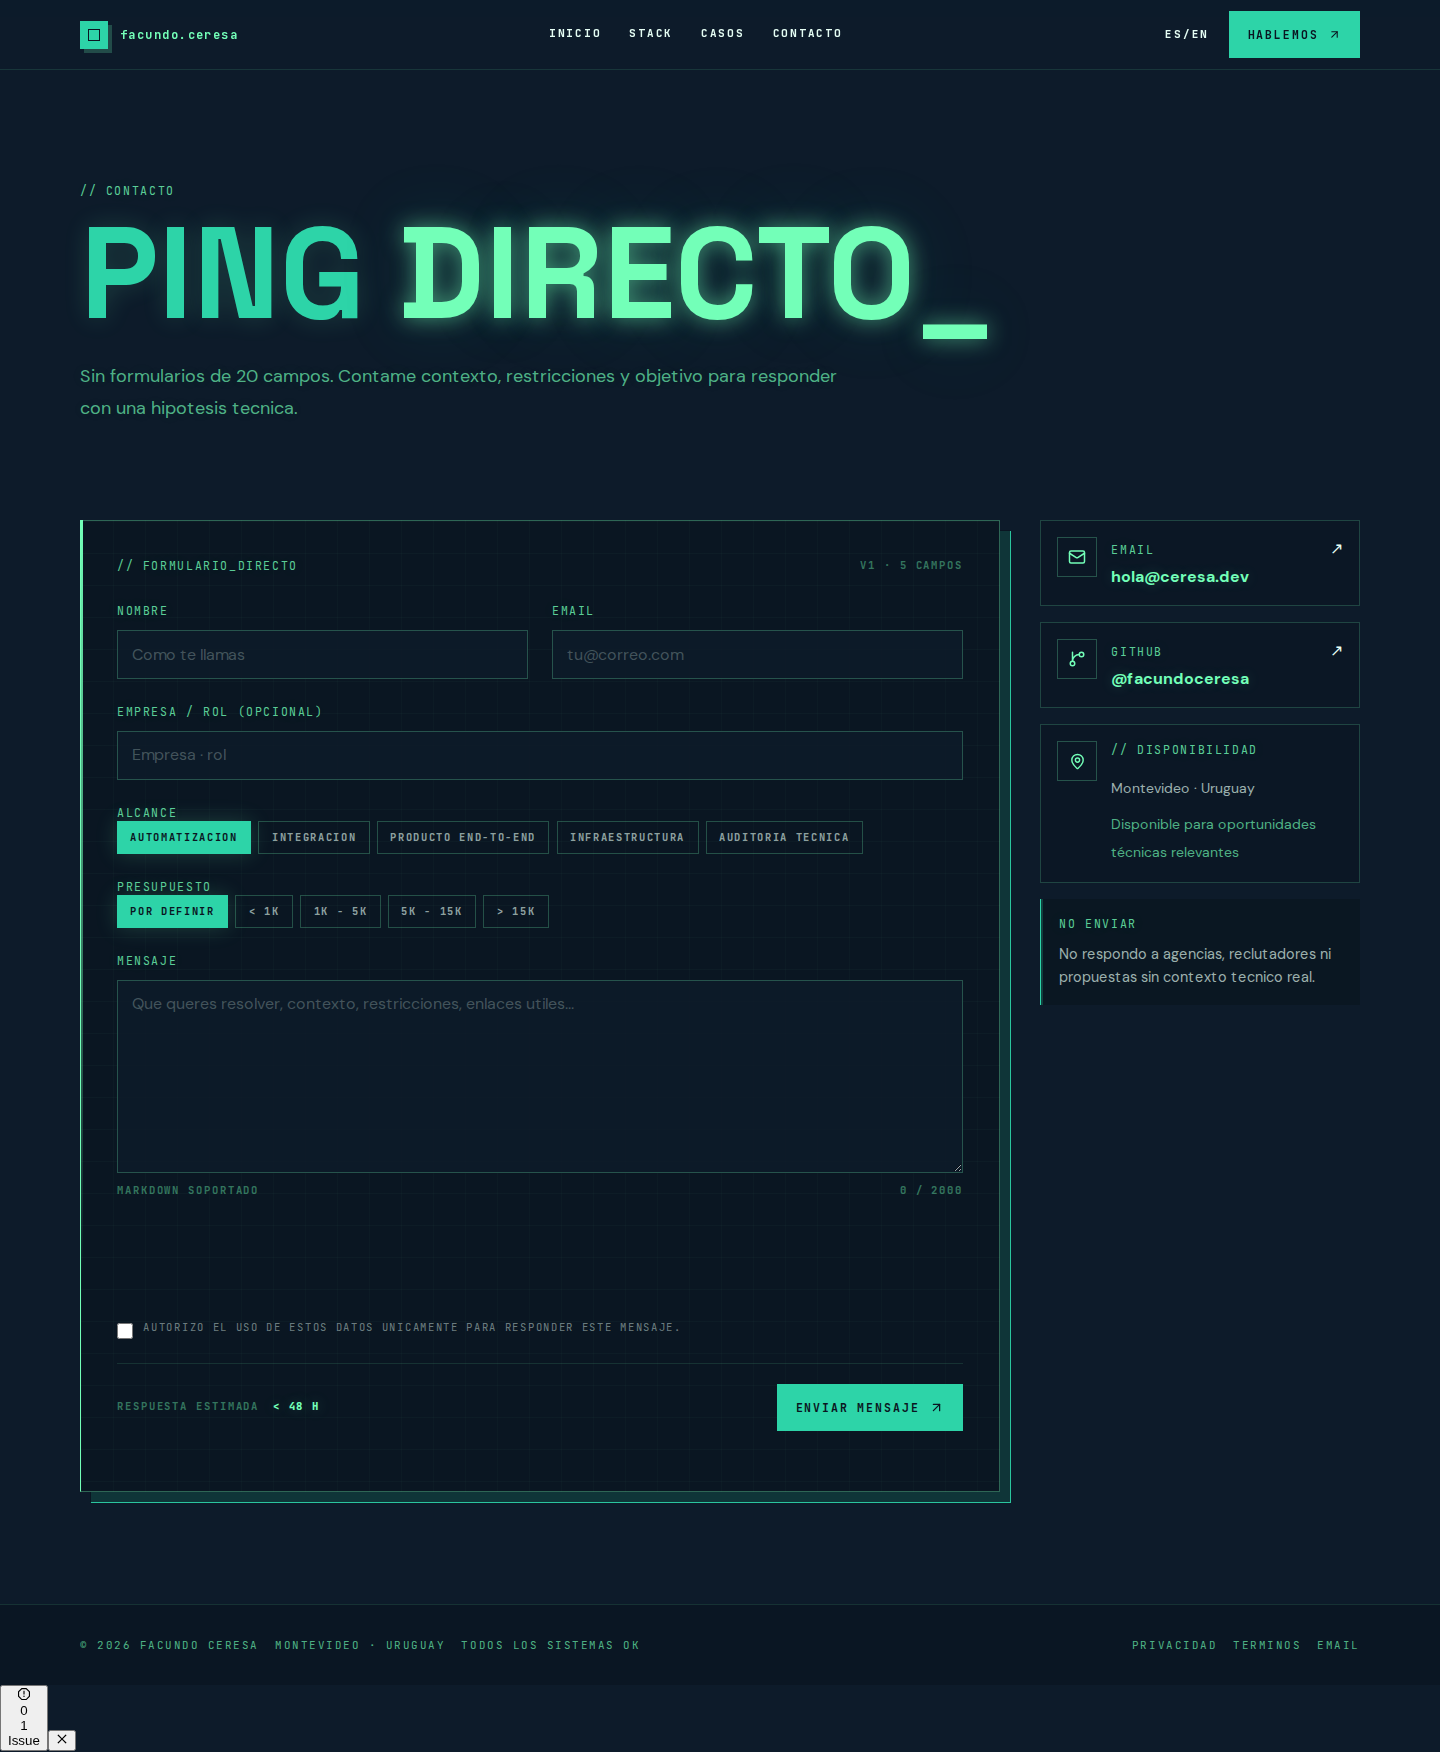
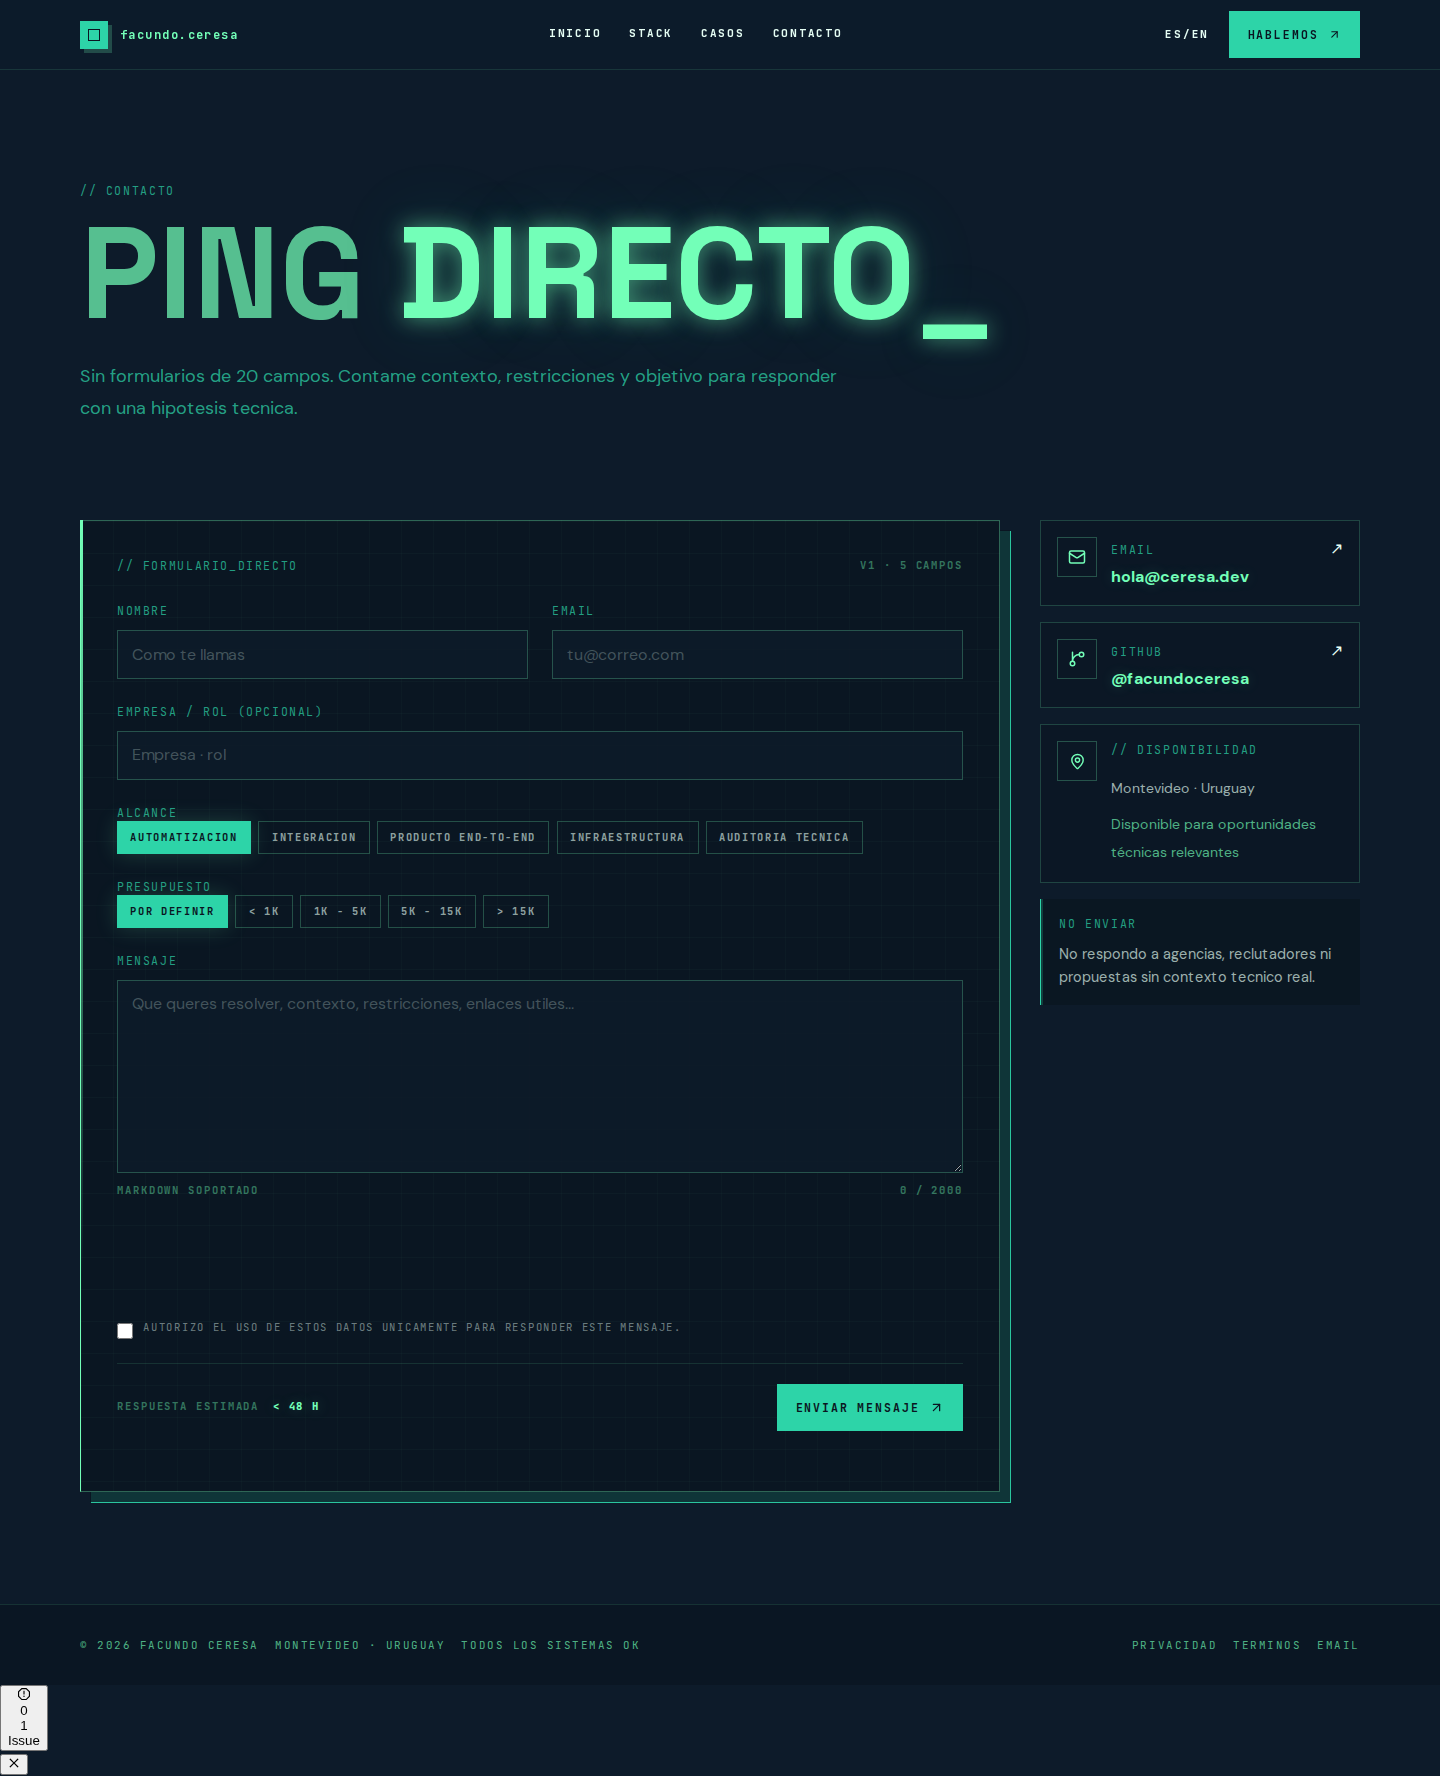
Tune portfolio text emphasis

diff --git a/apps/web/components/home/home-page.tsx b/apps/web/components/home/home-page.tsx
@@ -67,14 +67,14 @@ export function HomePage({ locale, settings, projects }: { locale: Locale; setti
           <div className="flex flex-col justify-between gap-14">
             <div>
               <p className="hero-boot tech-label mb-6">CERESA · {availability}</p>
-              <h1 className="hero-boot hero-boot-delay-1 display-title max-w-5xl text-[clamp(3.1rem,11vw,9.4rem)] text-mint drop-shadow-[0_0_28px_rgba(45,212,168,0.34)]">
+              <h1 className="hero-boot hero-boot-delay-1 display-title max-w-5xl text-[clamp(3.1rem,11vw,9.4rem)]">
                 FACUNDO
                 <br />
-                CERESA
+                <span className="text-glow-strong">CERESA</span>
               </h1>
             </div>
             <div className="max-w-[52rem]">
-              <p className="hero-boot hero-boot-delay-2 mb-5 max-w-2xl text-lg leading-8 text-[color:var(--muted)]">{t.hero.terminal}</p>
+              <p className="hero-boot hero-boot-delay-2 mb-5 max-w-2xl text-lg leading-8 text-tone-green">{t.hero.terminal}</p>
               <div className="hero-boot hero-boot-delay-3 mb-9 flex flex-wrap items-center gap-3">
                 <Link className="hard-button hard-button-primary" href="#trabajo">
                   {t.hero.work}
@@ -128,8 +128,8 @@ export function HomePage({ locale, settings, projects }: { locale: Locale; setti
         <div className="mx-auto grid max-w-[1360px] gap-10 px-5 md:grid-cols-[0.85fr_1fr] md:px-10">
           <div>
             <p className="tech-label mb-4">{locale === "es" ? "// perfil" : "// profile"}</p>
-            <h2 className="display-title text-[clamp(2.4rem,5vw,5.4rem)] text-mint">{locale === "es" ? "Software cerca del proceso." : "Software close to the process."}</h2>
-            <p className="mt-7 max-w-xl text-lg leading-8 text-[color:var(--muted)]">
+            <h2 className="display-title text-[clamp(2.4rem,5vw,5.4rem)]">{renderAccentTitle(locale === "es" ? "Software cerca del proceso." : "Software close to the process.")}</h2>
+            <p className="mt-7 max-w-xl text-lg leading-8 text-tone-muted">
               {locale === "es"
                 ? "Trabajo mejor cuando el problema cruza operación, datos e integración: entender cómo se mueve el negocio, modelarlo bien y dejar una herramienta que alguien pueda usar todos los días."
                 : "My best work sits where operations, data and integration meet: understanding how the business moves, modeling it well and leaving behind a tool people can use every day."}
@@ -143,8 +143,8 @@ export function HomePage({ locale, settings, projects }: { locale: Locale; setti
             {capabilityCards[locale].map((item, index) => (
               <ScrollReveal key={item.title} className="technical-card p-5" delay={index * 50} hover="surface">
                 <p className="tech-label mb-3">{item.kicker}</p>
-                <h3 className="font-display text-2xl font-bold uppercase text-[color:var(--glow)]">{item.title}</h3>
-                <p className="mt-4 text-sm leading-6 text-[color:var(--muted)]">{item.body}</p>
+                <h3 className="font-display text-2xl font-bold uppercase text-[color:rgba(115,255,184,0.82)]">{item.title}</h3>
+                <p className="mt-4 text-sm leading-6 text-tone-muted">{item.body}</p>
               </ScrollReveal>
             ))}
           </div>
@@ -159,7 +159,7 @@ export function HomePage({ locale, settings, projects }: { locale: Locale; setti
                 <span>0{index + 1}</span>
                 <span className="h-2 w-2 animate-[pulse-dot_2s_ease-in-out_infinite] bg-mint" />
               </div>
-              <h3 className="mb-5 font-display text-xl font-bold uppercase text-mint">{layer.title}</h3>
+              <h3 className="mb-5 font-display text-xl font-bold uppercase text-[color:rgba(115,255,184,0.72)]">{layer.title}</h3>
               <div className="flex flex-wrap gap-2">
                 {layer.tools.map((tool) => <span key={tool} className="border border-[color:var(--line)] px-2 py-1 font-mono text-[0.65rem] uppercase text-[color:var(--dim)]">{tool}</span>)}
               </div>
@@ -176,8 +176,8 @@ export function HomePage({ locale, settings, projects }: { locale: Locale; setti
                 <span>0{index + 1}</span>
                 <Check size={14} />
               </div>
-              <h3 className="font-display text-xl font-bold uppercase text-[color:var(--glow)]">{locale === "es" ? step.title : step.enTitle}</h3>
-              <p className="mt-4 text-sm leading-6 text-[color:var(--muted)]">{step.body}</p>
+              <h3 className="font-display text-xl font-bold uppercase text-[color:rgba(115,255,184,0.86)]">{locale === "es" ? step.title : step.enTitle}</h3>
+              <p className="mt-4 text-sm leading-6 text-tone-muted">{step.body}</p>
             </ScrollReveal>
           ))}
         </div>
@@ -186,8 +186,8 @@ export function HomePage({ locale, settings, projects }: { locale: Locale; setti
         <div className="mx-auto grid max-w-[1360px] gap-10 px-5 md:grid-cols-[0.8fr_1fr] md:px-10">
           <div>
             <p className="tech-label mb-4">{t.ai.eyebrow}</p>
-            <h2 className="display-title text-[clamp(2.4rem,5vw,5.6rem)] text-mint">{t.ai.title}</h2>
-            <p className="mt-8 max-w-xl text-lg leading-8 text-[color:var(--muted)]">{t.ai.body}</p>
+            <h2 className="display-title text-[clamp(2.4rem,5vw,5.6rem)]">{renderAccentTitle(t.ai.title)}</h2>
+            <p className="mt-8 max-w-xl text-lg leading-8 text-tone-green">{t.ai.body}</p>
           </div>
           <div className="grid gap-4 md:grid-cols-2">
             {[
@@ -198,7 +198,7 @@ export function HomePage({ locale, settings, projects }: { locale: Locale; setti
             ].map(([title, body]) => (
               <ScrollReveal key={title} className="technical-card p-5" hover="surface">
                 <h3 className="tech-label mb-3">{title}</h3>
-                <p className="text-sm leading-6 text-[color:var(--muted)]">{body}</p>
+                <p className="text-sm leading-6 text-tone-muted">{body}</p>
               </ScrollReveal>
             ))}
           </div>
@@ -206,8 +206,8 @@ export function HomePage({ locale, settings, projects }: { locale: Locale; setti
       </section>
       <section id="contacto" className="px-5 py-28 text-center md:px-10">
         <p className="tech-label mb-4">{t.contact.eyebrow}</p>
-        <h2 className="display-title mx-auto max-w-3xl text-[clamp(2.8rem,7vw,6rem)] text-[color:var(--glow)]">{t.contact.title}</h2>
-        <p className="mx-auto mt-6 max-w-2xl leading-7 text-[color:var(--muted)]">{t.contact.body}</p>
+        <h2 className="display-title mx-auto max-w-3xl text-[clamp(2.8rem,7vw,6rem)]">{renderAccentTitle(t.contact.title)}</h2>
+        <p className="mx-auto mt-6 max-w-2xl leading-7 text-tone-green">{t.contact.body}</p>
         <div className="contact-actions">
           <a className="hard-button hard-button-primary contact-action-primary" href={contact.mailHref}>
             <Mail size={16} aria-hidden="true" />
@@ -231,7 +231,7 @@ export function HomePage({ locale, settings, projects }: { locale: Locale; setti
 
 function HeroManifesto({ hero }: { hero: HeroCopy }) {
   return (
-    <div className="hero-boot hero-boot-delay-2 hero-manifesto border-l-4 border-l-[color:var(--glow)] p-6">
+    <div className="hero-boot hero-boot-delay-2 hero-manifesto border-l border-l-[color:var(--glow)] p-6">
       <p className="tech-label mb-4">{hero.kicker}</p>
       <h2 className="mb-4 font-display text-3xl font-bold text-[color:var(--fog)]">{hero.title}</h2>
       <p className="leading-7 text-[color:var(--muted)]">{hero.body}</p>
@@ -263,11 +263,22 @@ function SectionIntro({ eyebrow, title, body, action }: { eyebrow: string; title
     <ScrollReveal className="section-intro mx-auto flex max-w-[1360px] flex-col gap-6 px-5 md:flex-row md:items-end md:justify-between md:px-10">
       <div>
         <p className="tech-label mb-4">{eyebrow}</p>
-        <h2 className="display-title max-w-3xl text-[clamp(2.8rem,6vw,6rem)] text-mint">{title}</h2>
-        {body ? <p className="mt-5 max-w-xl leading-7 text-[color:var(--muted)]">{body}</p> : null}
+        <h2 className="display-title max-w-3xl text-[clamp(2.8rem,6vw,6rem)]">{renderAccentTitle(title)}</h2>
+        {body ? <p className="mt-5 max-w-xl leading-7 text-tone-muted">{body}</p> : null}
       </div>
       {action}
     </ScrollReveal>
+  );
+}
+
+function renderAccentTitle(title: string) {
+  const words = title.trim().split(/\s+/);
+  if (words.length < 2) return title;
+  const last = words.pop();
+  return (
+    <>
+      {words.join(" ")} <span className="text-glow-soft">{last}</span>
+    </>
   );
 }
 

diff --git a/apps/web/app/globals.css b/apps/web/app/globals.css
@@ -113,25 +113,33 @@ select {
 
 .tech-label {
   font-family: var(--font-mono), monospace;
-  color: rgba(115, 255, 184, 0.8);
+  color: rgba(45, 212, 168, 0.72);
   letter-spacing: 0.14em;
   text-transform: uppercase;
   font-size: 0.72rem;
-  text-shadow: 0 0 18px rgba(115, 255, 184, 0.16);
 }
 
 .display-title {
+  color: rgba(115, 255, 184, 0.72);
   font-family: var(--font-display), sans-serif;
   font-weight: 700;
   line-height: 0.84;
   overflow-wrap: break-word;
   text-transform: uppercase;
-  text-shadow: 0 0 26px rgba(115, 255, 184, 0.16);
+  text-shadow: none;
+}
+
+.display-title-dim {
+  color: rgba(115, 255, 184, 0.48);
+}
+
+.display-title-fog {
+  color: rgba(230, 255, 245, 0.72);
 }
 
 .text-glow-soft {
-  color: var(--mint);
-  text-shadow: 0 0 18px rgba(115, 255, 184, 0.3);
+  color: rgba(115, 255, 184, 0.88);
+  text-shadow: 0 0 16px rgba(115, 255, 184, 0.22);
 }
 
 .text-glow-strong {
@@ -157,8 +165,19 @@ select {
 }
 
 .page-header-body {
-  color: rgba(115, 255, 184, 0.68);
-  text-shadow: 0 0 18px rgba(45, 212, 168, 0.1);
+  color: rgba(45, 212, 168, 0.74);
+}
+
+.text-tone-muted {
+  color: rgba(230, 255, 245, 0.58);
+}
+
+.text-tone-dim {
+  color: rgba(115, 255, 184, 0.48);
+}
+
+.text-tone-green {
+  color: rgba(45, 212, 168, 0.76);
 }
 
 .hard-button {

diff --git a/docs/research/core-composition-lovable/BEHAVIORS.md b/docs/research/core-composition-lovable/BEHAVIORS.md
@@ -38,3 +38,4 @@ Captured routes:
 - Preserved local project content, email, backend field names, Turnstile behavior, and current routes.
 - Rebuilt visual treatment for contact, privacy/terms, global 404, and case-not-found fallbacks.
 - Added text glow utilities and stronger opacity hierarchy without changing `ScrollReveal` opacity behavior.
+- Follow-up tone pass removed glow from the base display style. Default titles now sit at lower mint opacity; only selected words/spans receive strong or soft glow so emphasis is selective.
